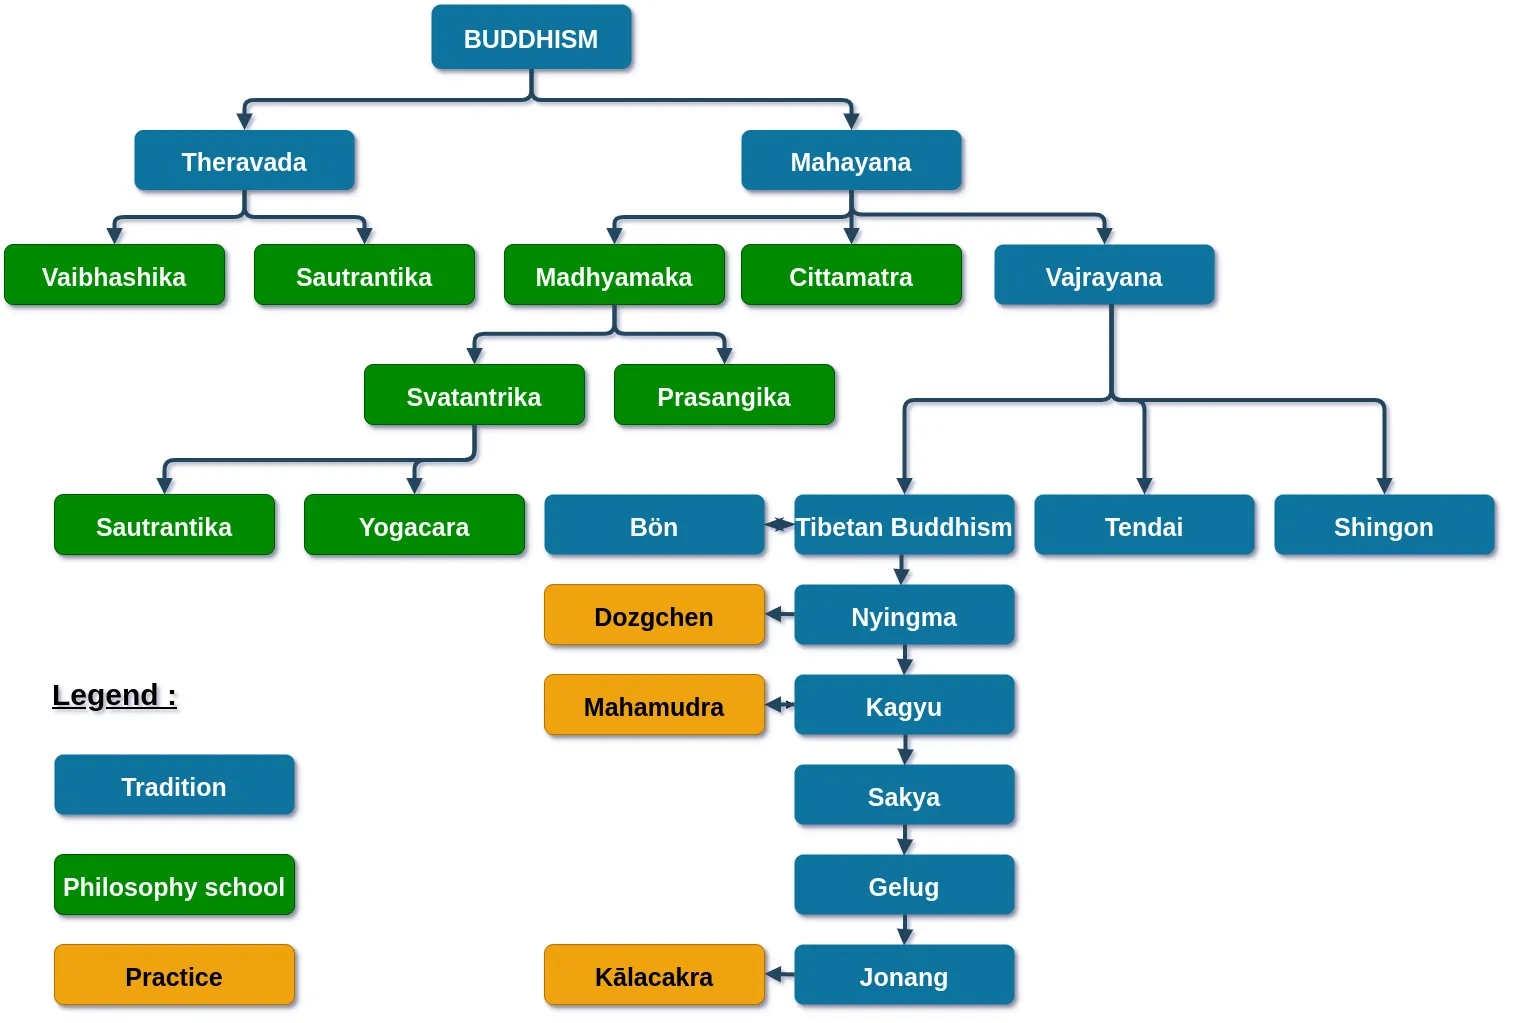
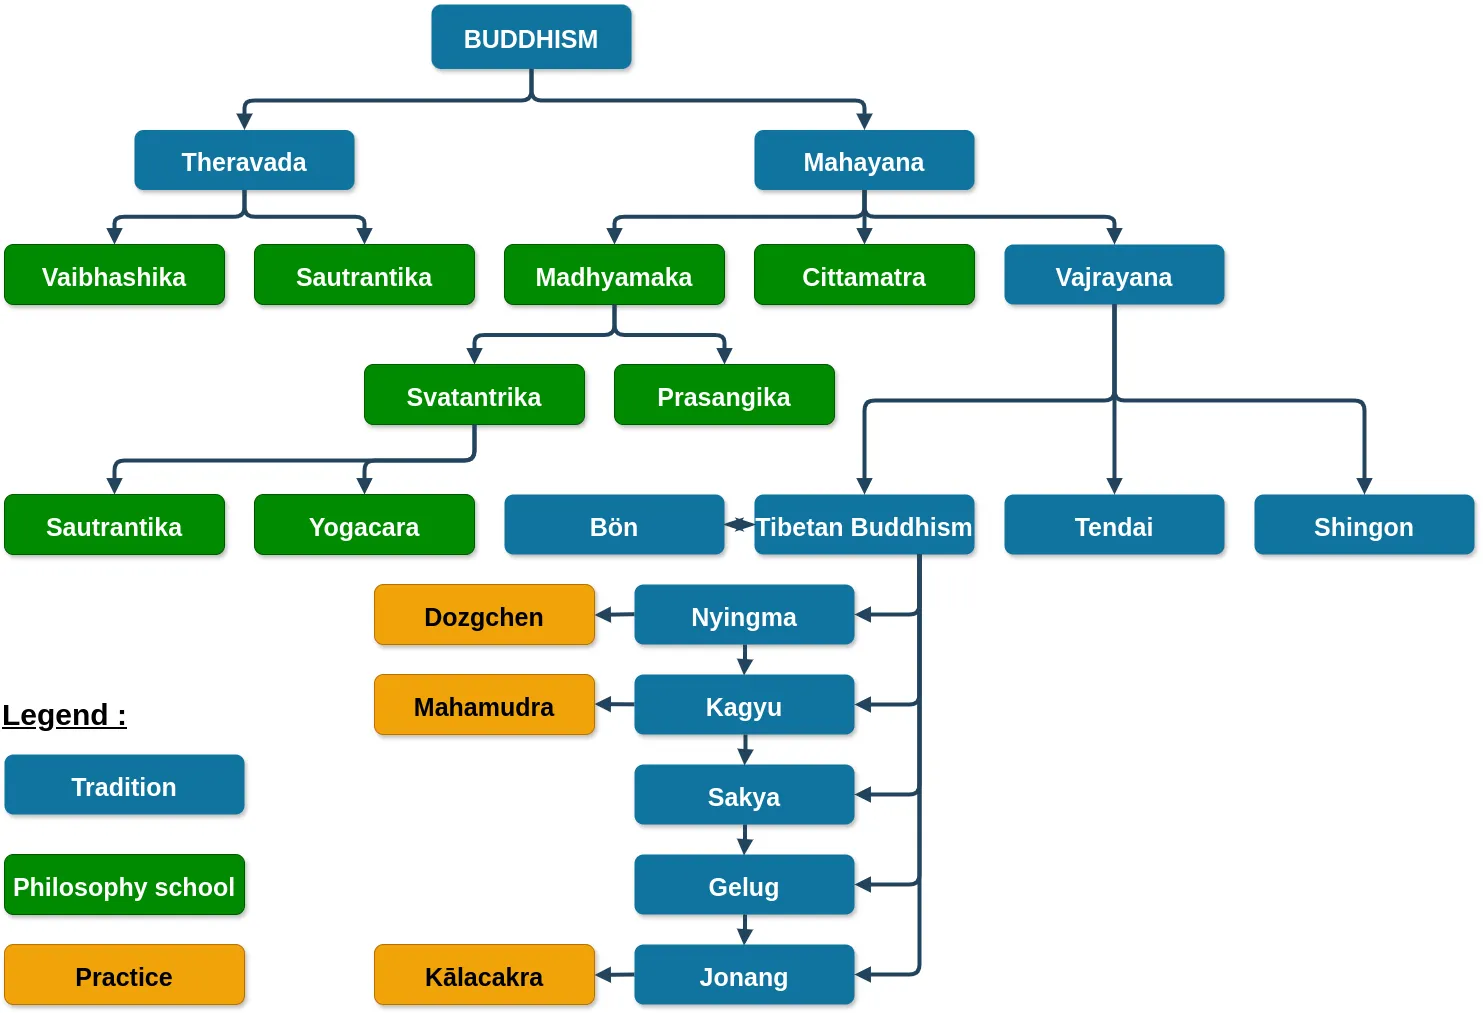
blog post small edits

Changed region(s): [[0.0, 0.0, 1.0, 1.0], [0.0, 0.6732, 0.2171, 1.0]]

diff --git a/_posts/2024-10-09-buddhist-schools-classification.md b/_posts/2024-10-09-buddhist-schools-classification.md
@@ -20,7 +20,7 @@ The various forms of Buddhism are known as *Yana*, a Sanskrit word meaning "path
 
 The term *Hinayana* ("lesser vehicle") is considered pejorative and should be replaced by *Theravada* ("Way of the Elders"). Vajrayana, meanwhile, is a specialized subset of the Mahayana tradition.
 
-### Theravada ("Way of the Elders")
+### Theravada : *The Way of the Elders*
 
 ![theravada]({{ site.baseurl }}/assets/images/buddhist_traditions/theravada.webp)
 
@@ -32,7 +32,7 @@ This tradition emphasizes renunciation and self-purification through personal me
 
 Theravada is the predominant form of Buddhism practiced in countries such as Sri Lanka, Myanmar, Thailand, Cambodia, and Laos.
 
-### Mahayana ("The Great Vehicle")
+### Mahayana : *The Great Vehicle*
 
 ![mahayana]({{ site.baseurl }}/assets/images/buddhist_traditions/mahayana.webp)
 
@@ -46,7 +46,7 @@ Central to Mahayana philosophy is the concept of *emptiness* (*Shunyata*)—the 
 
 Mahayana is the dominant form of Buddhism in East and Central Asia, flourishing in countries like China (*Chan* Buddhism), Japan (*Zen*, *Nichiren*, and *Pure Land* Buddhism), Vietnam (*Thien* Buddhism), and Korea (*Seon* Buddhism).
 
-### Vajrayana ("Diamond vehicle")
+### Vajrayana : *The Diamond Vehicle*
 
 ![vajrayana]({{ site.baseurl }}/assets/images/buddhist_traditions/vajrayana.webp)
 
@@ -72,12 +72,14 @@ In addition, the **Jonang** school, founded by Yumo Mikyo Dorje, is known for it
 
 # Summary
 
+Below is a summary table comparing the three vehicle : Theravada, Mahayana and Vajrayana.
+
 |  | Theravada | Mahayana | Vajrayana |
 | --- | --- | --- | --- |
 | Name meaning | Way of the Elders | Great Vehicle | Diamond Vehicle |
-| Founded | 1<sub>st</sub> century B.C.E | 4<sub>th</sub> century CE | 5<sub>th</sub> century CE |
+| Founded | 1<sup>st</sup> century B.C.E | 4<sup>th</sup> century CE | 5<sup>th</sup> century CE |
 | How to deal with the 3 poisons | avoid the poison | take the antidote | distil the poison to its pure essence |
-| Location | Southern India, Sri Lanka, Myanmar, Thailand, Cambodia, and Laos. | China, Japan, Vietnam, Central Asia, Korea | Tibet, Nepal, Northern India, Bhutan, Mongolia, Himalayas region |
+| Location | Southern India, Sri Lanka, Myanmar, Thailand, Cambodia, Laos | China, Japan, Vietnam, Central Asia, Korea | Tibet, Nepal, Northern India, Bhutan, Mongolia, Himalayas region |
 | Goal | attain Nirvana through personal meditation and solitary efforts | reach enlightenment by practicing widsom and compassion | reach enlightenment as fast as possible using esoteric practices |
 | Spiritual ideal | Arahant | Boddhissattva | Boddhissattva |
 
@@ -104,19 +106,18 @@ In the **Theravada** tradition, there are two primary philosophical systems:
 
 Within the **Mahayana** tradition, there are two major schools of thought:
 
-- **Madhyamaka** (The Middle Way School) does not assert the true establishment of anything, not even conventionally. It is divided into two branches:
-    - **Svatantrika** (The Middle Way Autonomy School) accepts autonomous reasoning but denies true establishment, even conventionally. It has two sub-schools:
-        - **Sautrantika-Svatantrika** (Sutra-based Middle Way Autonomists), whose views align with the Sautrantika school of the Theravada tradition.
-        - **Yogacara-Svatantrika** (Yogic Middle Way Autonomists), whose views align with the Cittamatra (Mind-Only) school.
-- **Prasangika** (The Middle Way Consequence School) is a more radical branch of Madhyamaka that refutes even autonomous reasoning, relying solely on deconstructive logic to reveal the emptiness of all phenomena.
-
-The **Cittamatra** (Mind-Only School) asserts that external objects do not exist; only the mind exists. However, it does accept the existence of truly established self-knowers.
+1. **Madhyamaka** (The Middle Way School) does not assert the true establishment of anything, not even conventionally. It is divided into two branches:
+    1. **Svatantrika** (The Middle Way Autonomy School) accepts autonomous reasoning but denies true establishment, even conventionally. It has two sub-schools:
+        1. **Sautrantika-Svatantrika** (Sutra-based Middle Way Autonomists), whose views align with the Sautrantika school of the Theravada tradition.
+        2. **Yogacara-Svatantrika** (Yogic Middle Way Autonomists), whose views align with the Cittamatra (Mind-Only) school.
+    2. **Prasangika** (The Middle Way Consequence School) is a more radical branch of Madhyamaka that refutes even autonomous reasoning, relying solely on deconstructive logic to reveal the emptiness of all phenomena.
+2. The **Cittamatra** (Mind-Only School) asserts that external objects do not exist; only the mind exists. However, it does accept the existence of truly established self-knowers.
 
 I hope you're keeping up—Buddhists certainly love organization! Below is a diagram summarizing the various traditions, schools, and practices in Buddhism.
 
 ![buddhist_traditions]({{ site.baseurl }}/assets/images/buddhist_traditions/buddhist_traditions.webp)
 
-# For more information
+# Further reading
 
 1. [The Four Buddhist Tenet Systems Regarding the Two Truths](https://studybuddhism.com/en/advanced-studies/abhidharma-tenet-systems/the-indian-tenet-systems/the-four-buddhist-tenet-systems-regarding-the-two-truths)
 
